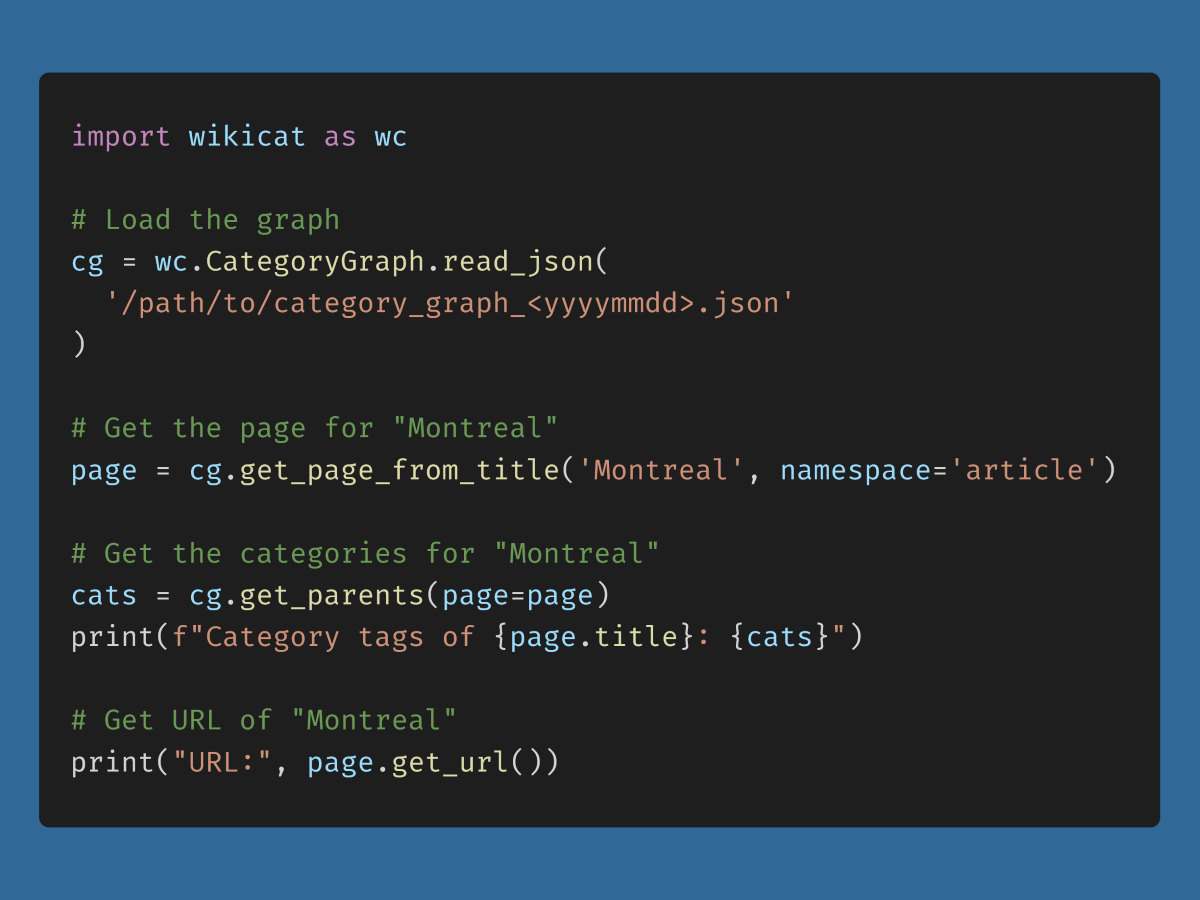
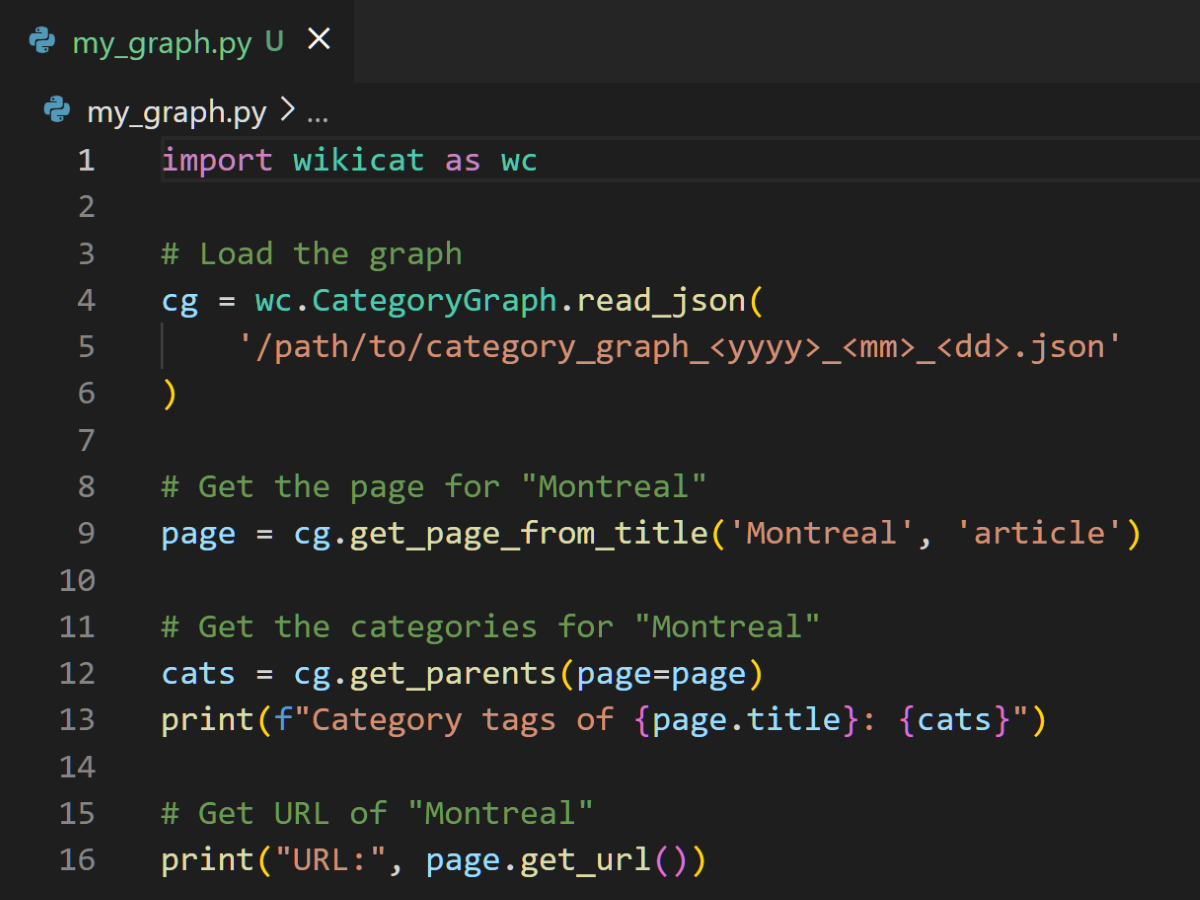
update image and add links to the docs

diff --git a/README.md b/README.md
@@ -9,6 +9,8 @@
 
 ## Main API
 
+> **Note** The reference docs can be found in [docs/wikicat.md](docs/wikicat.md)
+
 The main `wikicat` API allows you work with category graphs generated from a certain dump by Wikipedia. Once the dump is processed via `wikicat.processing`, you can easily navigate the graph using simple and clear Python code, all offline (i.e., you do not need to make web requests to Wikipedia, and you can choose dump going back to any date you prefer). The API is designed to be as simple as possible, and is intended to be used by researchers and developers who want to work with the Wikipedia category graph.
 
 To install the API, run:
@@ -23,10 +25,12 @@ pip3 install wikicat
 import wikicat as wc
 
 # Load the graph
-cg = wc.CategoryGraph.read_json('/path/to/category_graph_<yyyy>_<mm>_<dd>.json')
+cg = wc.CategoryGraph.read_json(
+    '/path/to/category_graph_<yyyy>_<mm>_<dd>.json'
+)
 
 # Get the page for "Montreal"
-page = cg.get_page_from_title('Montreal', namespace='article')
+page = cg.get_page_from_title('Montreal', 'article')
 
 # Get the categories for "Montreal"
 cats = cg.get_parents(page=page)
@@ -44,6 +48,8 @@ You can find the full documentation in the [our repository wiki](https://github.
 ## `wikicat.processing`
 
 *`wikicat.processing` is a command line interface (CLI) for downloading and processing the data*
+
+> **Note** The reference docs can be found in [docs/wikicat/processing.md](docs/wikicat/processing.md)
 
 To install the processing tools, run:
 
@@ -77,7 +83,9 @@ The results will be saved in `~/.wikicat_data/category_graph_<yyyy>_<mm>_<dd>.js
 
 ## `wikicat.viewer`
 
-*`wikicaat.viewer` is an application that lets you visually explore a category graph*
+*`wikicat.viewer` is an application that lets you visually explore a category graph*
+
+> **Note** The reference docs can be found in [docs/wikicat/viewer.md](docs/wikicat/viewer.md)
 
 To install the viewer, run:
 
